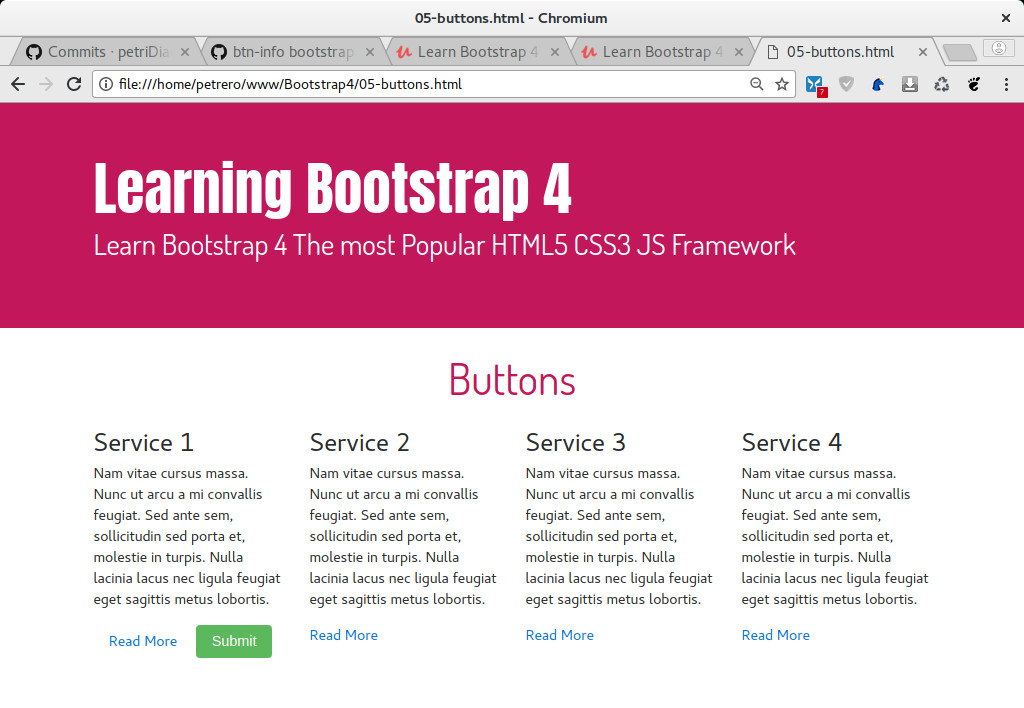
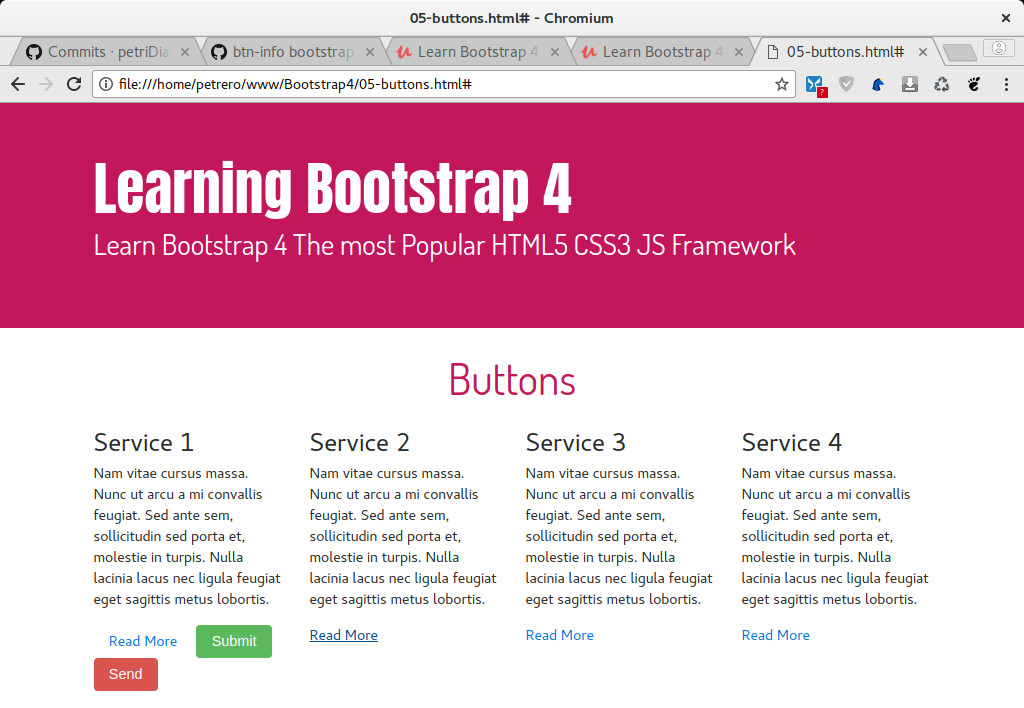
btn-outline-primary bootstrap class effect

diff --git a/05-buttons.html b/05-buttons.html
@@ -27,10 +27,8 @@
             <div class="col-6 col-sm-3">
                   <h3>Service 1</h3>
                   <p>Nam vitae cursus massa. Nunc ut arcu a mi convallis feugiat. Sed ante sem, sollicitudin sed porta et, molestie in turpis. Nulla lacinia lacus nec ligula feugiat eget sagittis metus lobortis.</p>
-                  <a href="#" class="btn btn-link">Read More</a>
-                  
-                  <button type="button" value="Submit" class="btn btn-success">Submit</button>
-                  <input type="submit" value="Send" class="btn btn-danger"/>
+                  <a href="#" class="btn btn-outline-primary">Read More</a>
+               
                     
             </div>
             <div class="col-6 col-sm-3">
